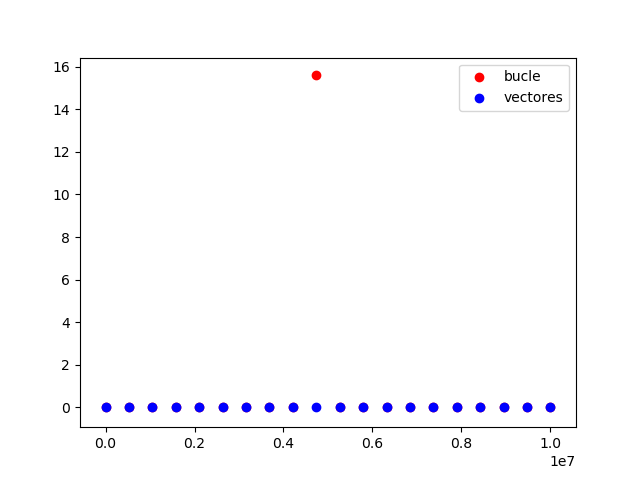
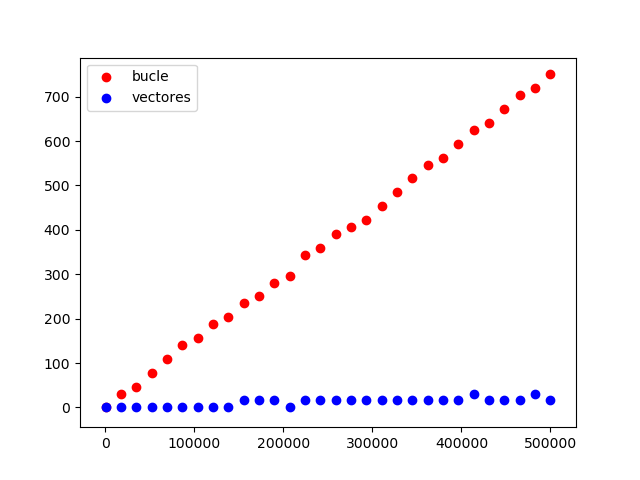
finish practice 0

diff --git a/practica-0/p0.py b/practica-0/p0.py
@@ -13,29 +13,26 @@ def integra_mc_bucle(fun, a, b, num_puntos=10000):
     function_points = []
 
     # Generamos puntos pertenecientes a la funcion y nos quedamos con el mayor
+    M = -1
     for number in range(num_puntos):
         x = random.uniform(a, b)
         y = fun(x)
         function_points.append((x, y))
-
-    M = function_points[0][1]
-    for point in function_points:
-        if point[1] > M:
-            M = point[1]
+        if y > M:
+            M = y
 
     # Generar puntos aleatorios dentro del cuadrado
-    random_points = []
     Ndebajo = 0
     Ntotal = 0
     for number in range(num_puntos):
         x = random.uniform(a, b)
-        y = random.uniform(0.0, M)
+        y = random.uniform(0, M)
 
         y_func = fun(x)
         if y < y_func:
-            Ndebajo = Ndebajo + 1
+            Ndebajo += 1
 
-        Ntotal = Ntotal + 1
+        Ntotal += 1
 
     I = (Ndebajo / Ntotal) * (b - a) * M
 
@@ -44,11 +41,28 @@ def integra_mc_bucle(fun, a, b, num_puntos=10000):
     return 1000 * (toc - tic)
 
 
-def integra_mc_vectores(fun, a, b, num_puntos=100000):
+def integra_mc_vectores(fun, a, b, num_puntos=10000):
     """ Calcula la integral entre a y b de una funcion dada utilizando el método de Monte Carlo,
     haciendo uso de la librería de numpy. Devuelve el tiempo que ha invertido en realizar la operación """
 
     tic = time.process_time()
+    ys = fun(np.random.uniform(a, b, num_puntos))
+
+    M = np.max(ys)
+
+    xsr = np.random.uniform(a, b, num_puntos)  # x aleatorias
+    ysr = np.random.uniform(0, M, num_puntos)  # y aleatorias
+
+    # Cada par de (xsr[i], ysr[i]) es una coordenada
+
+    ysfr = fun(xsr)  # las f(x) de las x aleatorias
+
+    ysfr = ysfr[ysr < ysfr]
+
+    Ntotal = num_puntos
+    Ndebajo = len(ysfr)
+
+    I = (Ndebajo / Ntotal) * (b - a) * M
 
     toc = time.process_time()
 
@@ -65,15 +79,14 @@ def compara_tiempos():
 
     for points in num_points:
         times_loop.append(integra_mc_bucle(func, 10, 20, num_puntos=int(points)))
-        # times_vectors += [integra_mc_vectores(func, a, b)]
+        times_vectors.append(integra_mc_vectores(func, 10, 20, num_puntos=int(points)))
 
     plt.figure()
     plt.scatter(num_points, times_loop, c="red", label="bucle")
-    # plt.scatter(sizes, times_vectors, c="blue", label="vectores")
+    plt.scatter(num_points, times_vectors, c="blue", label="vectores")
 
     plt.legend()
-    plt.show()
-    # plt.savefig("time.png")
+    plt.savefig("time.png")
 
 
 compara_tiempos()
